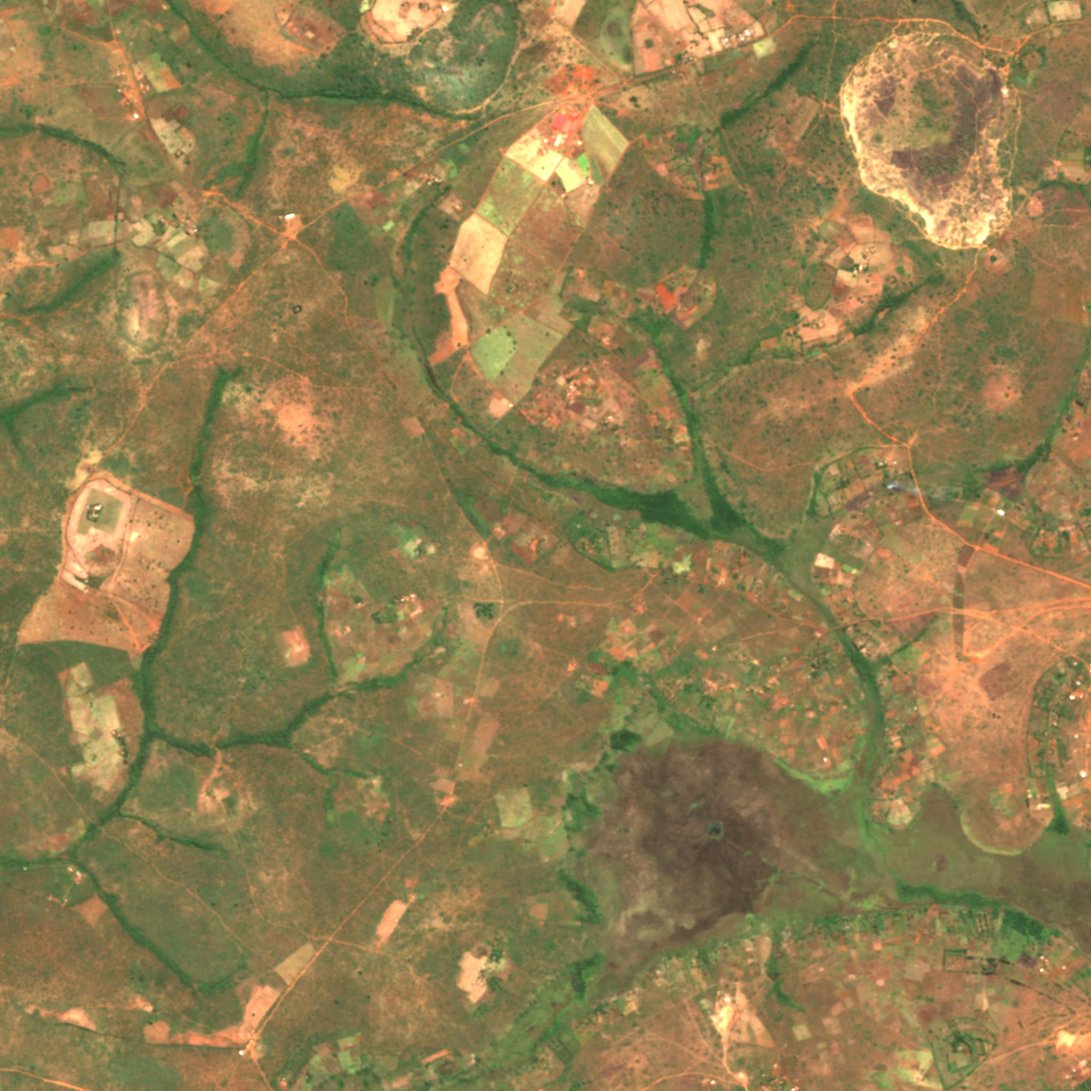
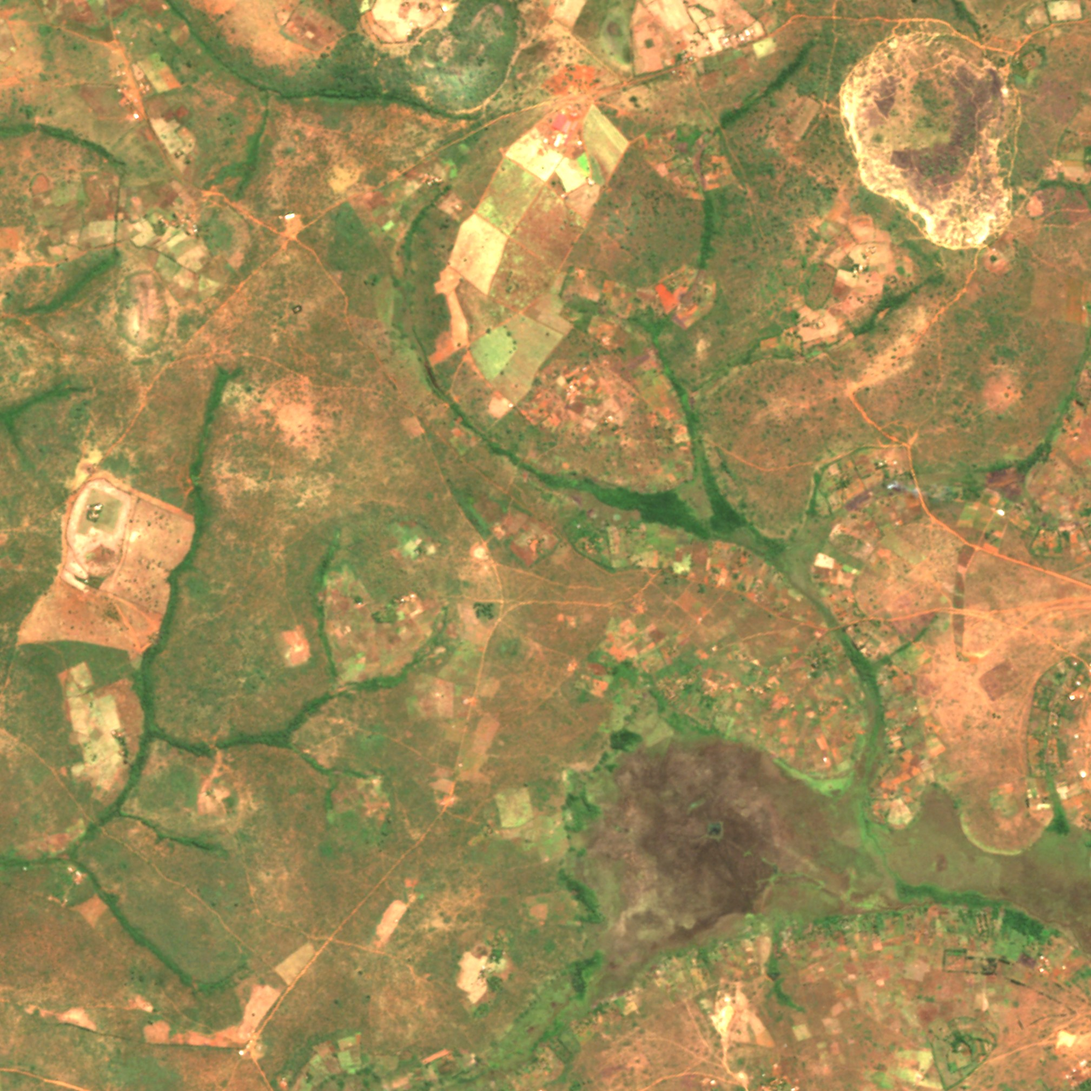
Jeu : terrain réel de la capitale Port-Wanzala
- Modèle : presqu'île de Freetown (miroir, rotation 160°), comparée à Limbé et Cape Coast
- Éclaircissement automatique des images satellites (zones claires non brûlées)
- Terrains régénérés, planche des 6 régions, justification et précautions documentées

Claude-Session: https://claude.ai/code/session_01SNuZc94PREV2HtRBaz9rw7

diff --git a/jeu/outils-geo/terrain_reel.py b/jeu/outils-geo/terrain_reel.py
@@ -194,8 +194,12 @@ def main():
         rgb, url = lire_sentinel(a.scene, crs, transform, grand)
         rgb = np.dstack([recadrer(transformer(rgb[..., i], a.rotation, a.miroir, ordre=1), a.taille)
                          for i in range(3)])
-        # éclaircit la vraie couleur (les images Sentinel-2 TCI sont sombres)
-        rgb = np.clip(rgb.astype(np.float32) * 1.8 + 10, 0, 255)
+        # éclaircit la vraie couleur (les images Sentinel-2 TCI sont sombres), avec un gain
+        # adapté à chaque image pour ne pas « brûler » les zones claires (villes, savane sèche)
+        rgb = rgb.astype(np.float32)
+        terres = rgb[h > 0]
+        gain = 1.8 if terres.size == 0 else float(np.clip(225 / max(np.percentile(terres, 97), 1), 1.0, 2.2))
+        rgb = np.clip(rgb * gain + 6, 0, 255)
         # au large, on remplace l'image (bords de tuile, reflets) par une mer unie ;
         # on garde la vraie couleur près des côtes (récifs, sable, eaux peu profondes)
         large = ndimage.gaussian_filter((h < -6 * a.echelle).astype(np.float32), 3)[..., None]

diff --git a/jeu/GEOGRAPHIE-REELLE.md b/jeu/GEOGRAPHIE-REELLE.md
@@ -38,10 +38,36 @@ identifiable. On peut aussi assembler plusieurs lieux réels dans une même rég
 | Plateau d'Ébène | Plateau de l'Adamaoua, vers Ngaoundéré (Cameroun) | Savane arborée, champs, galeries forestières, pitons | ✅ Généré (rotation 120°) |
 | Forêt de la Mbali | Fleuve Ogooué, vers Lambaréné (Gabon) | Forêt dense, grand fleuve, bancs de sable | ✅ Généré (rotation 75°, miroir) |
 | Monts Kouré | Monts Bamboutos (Cameroun) | Crêtes, vallées cultivées en terrasses, 1 450 m de dénivelé | ✅ Généré (rotation −40°) |
-| Port-Wanzala (capitale) | Site côtier en baie + urbanisme inventé | Ville construite à la main | À concevoir |
+| Port-Wanzala (capitale) | Presqu'île de Freetown (Sierra Leone) | Plaine côtière pour le centre-ville et le port, collines jusqu'à 750 m pour les quartiers riches et le palais, plages, baie et estuaire | ✅ Généré (rotation 160°, miroir) — voir §2 bis |
 
-Mélanger des modèles de **plusieurs pays** (ici Guinée équatoriale, Côte d'Ivoire, Cameroun, Gabon)
+Mélanger des modèles de **plusieurs pays** (ici Guinée équatoriale, Côte d'Ivoire, Cameroun, Gabon, Sierra Leone)
 renforce le caractère fictif de Wanzala. Détails, échelles d'import et limites : [terrains/README.md](terrains/README.md).
+
+## 2 bis. Pourquoi la presqu'île de Freetown pour la capitale
+
+Trois sites ont été comparés sur leur relief réel : la presqu'île de Freetown (Sierra Leone),
+la côte de Limbé au pied du mont Cameroun, et Cape Coast (Ghana).
+
+| Critère pour une grande ville de jeu | Freetown | Limbé | Cape Coast |
+|---|---|---|---|
+| Plaine côtière pour le centre, le port, les quartiers populaires | ✅ | Étroite | ✅ |
+| Collines dominant la ville (quartiers riches, palais, poursuites en lacets) | ✅ jusqu'à 750 m | ✅ volcan de 4 000 m, trop grand | ❌ presque plat |
+| Plages, baies, estuaire, presqu'île (variété, port, aéroport) | ✅ | Partiel | Partiel |
+| Ville déjà dense sur l'image (guide pour les rues et les quartiers) | ✅ | Petite ville | Petite ville |
+
+C'est le même principe que les grandes villes de jeux en monde ouvert : un centre plat au bord
+de l'eau, des collines chics au-dessus, et la nature tout autour. Le palais présidentiel sera
+placé sur une crête qui domine toute la ville, et on le verra de partout.
+
+**Précautions propres à ce choix :**
+- Freetown est une vraie capitale. Le terrain est donc **retourné en miroir et tourné de 160°**,
+  et toute la ville sera **reconstruite de zéro** : aucune rue, aucun bâtiment ni monument réel.
+- La Sierra Leone a connu une guerre civile liée aux rebelles et aux diamants. Notre histoire
+  (rebelles, mines, corruption) pourrait y faire penser si le site était reconnaissable : c'est
+  une raison de plus de le transformer, et de ne jamais reprendre de faits, de noms ou d'images
+  de cette guerre.
+- **Alternative** si vous préférez éviter tout rapprochement : la côte de Limbé (Cameroun), avec
+  le volcan en toile de fond, mais une plaine plus étroite pour la ville.
 
 ## 3. L'île de départ, résultat obtenu
 
@@ -98,6 +124,6 @@ Toutes les mentions seront regroupées dans les crédits du jeu (fichier `CREDIT
 - [x] Wanzala conservé à sa position
 - [ ] Valider les noms des 28 autres pays fictifs
 - [x] Générer les terrains des autres régions (côte, plateau, forêt, monts)
-- [ ] Choisir l'emplacement de la capitale Port-Wanzala et générer son terrain
+- [x] Choisir le modèle de la capitale Port-Wanzala et générer son terrain (presqu'île de Freetown)
 - [ ] Ajouter le relief ombré à la carte du continent et la carte d'occupation des sols (ESA WorldCover)
 - [ ] Sur le PC de développement : importer la heightmap dans Unreal et faire une première promenade

diff --git a/jeu/terrains/README.md b/jeu/terrains/README.md
@@ -13,6 +13,7 @@ retourné pour ne pas être reconnaissable.
 | [plateau-ebene/](plateau-ebene/) | Plateau d'Ébène (acte 3) | Plateau de l'Adamaoua, région de Ngaoundéré (Cameroun) | 7,2 km | 52 km² | 183 m | 356,50 / 77 | 1 066 m |
 | [foret-mbali/](foret-mbali/) | Forêt de la Mbali (acte 3) | Fleuve Ogooué, région de Lambaréné (Gabon) | 7,2 km | 52 km² | 99 m | 357,82 / 42 | 2 m |
 | [monts-koure/](monts-koure/) | Monts Kouré (acte 4) | Monts Bamboutos (Cameroun) | 8,4 km | 70 km² | 1 452 m | 416,09 / 597 | 1 288 m |
+| [port-wanzala/](port-wanzala/) | Port-Wanzala, capitale (acte 5) | Presqu'île de Freetown (Sierra Leone), en miroir et tournée de 160° | 10,2 km | 80 km² (dont ~25 km² de plaine urbanisable) | 749 m | 505,90 / 308 | niveau de la mer |
 
 Chaque dossier contient :
 
@@ -30,7 +31,7 @@ Chaque dossier contient :
   planter la végétation du jeu.
 - **Les lagunes et fleuves** sont plats dans le relief : on y place un plan d'eau Unreal
   (*Water* plugin). La profondeur de la lagune est fictive (à remodeler, la vraie fait 5 à 20 m).
-- **Les surfaces dépassent le plan initial** (≈ 225 km² au total contre 120 km² prévus). On pourra
+- **Les surfaces dépassent le plan initial** (≈ 300 km² au total contre 120 km² prévus). On pourra
   réduire avec `--echelle` ou ne garder qu'une partie de chaque terrain ; décision à prendre au
   moment de construire chaque acte (l'île, seule nécessaire pour commencer, est à la bonne taille).
 

diff --git a/jeu/CARTOGRAPHIE.md b/jeu/CARTOGRAPHIE.md
@@ -16,7 +16,7 @@ construit **pas** d'un coup : chaque acte ajoute une région. L'île seule fait 
 | 3 | **Plateau d'Ébène** | ~30 km² | Savane arborée, champs, baobabs, villages | Acte 3 | Bourg de Sanké, grandes plantations, aérodrome de brousse |
 | 4 | **Forêt de la Mbali** | ~25 km² | Forêt dense humide, fleuve, cascades | Acte 3 | Mines d'or illégales, base du Général Okapi, scierie |
 | 5 | **Monts Kouré** | ~20 km² | Hauts plateaux, thé, brouillard, falaises | Acte 4 | Barrage hydroélectrique, relais télécom, ville de Kouré |
-| 6 | **Port-Wanzala (capitale)** | ~23 km² | Grande ville : centre d'affaires, quartiers populaires, palais | Acte 5 | Palais présidentiel, ministères, aéroport international, stade, cathédrale, grand marché |
+| 6 | **Port-Wanzala (capitale)** | ~25 km² de ville (80 km² avec les collines) | Grande ville : plaine côtière (centre, port, quartiers populaires), collines (quartiers riches, palais sur une crête), plages, baie | Acte 5 | Palais présidentiel, ministères, aéroport international, stade, cathédrale, grand marché |
 
 Liaisons : bac et pirogues (île ↔ côte), route nationale côtière, fleuve Mbali navigable,
 voie ferrée minière (plateau ↔ capitale), aérodromes.
